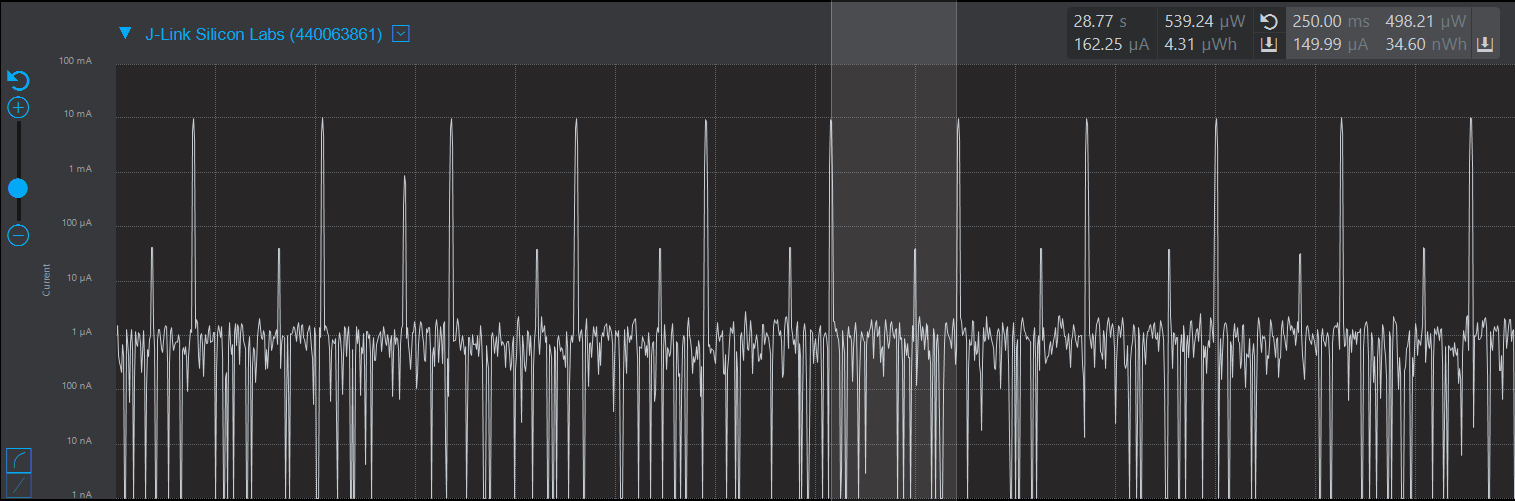
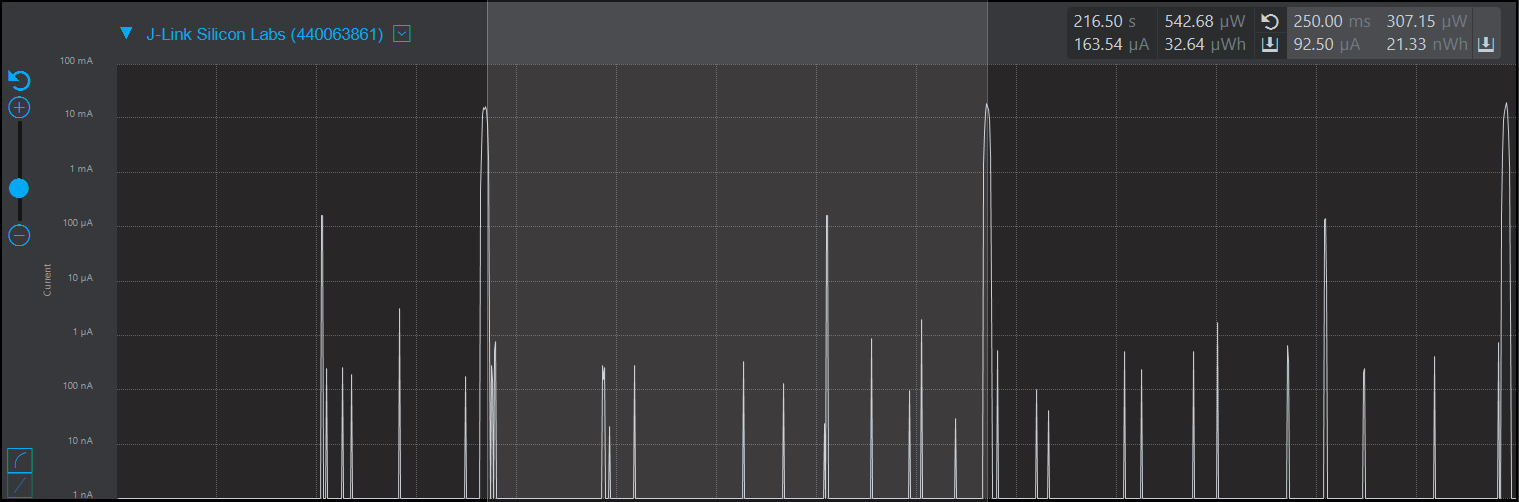
added proper EM requirements

diff --git a/src/scheduler.c b/src/scheduler.c
@@ -108,14 +108,14 @@ void PowerUp(void) {
 
 void SendReadTempCommand(void) {
     LETIMER_IntDisable(LETIMER0, LETIMER_IEN_COMP1);
-    //sl_power_manager_add_em_requirement(EM1);
+    sl_power_manager_add_em_requirement(EM1);
 
     I2C0_SendCommand(CMD_READ_TEMP);
 }
 
 
 void WaitForTempSensorReading(void) {
-    //sl_power_manager_remove_em_requirement(EM1);
+    sl_power_manager_remove_em_requirement(EM1);
     I2C0_DisableIntForTransfer();
 
     timerWaitUs_irq(TEMP_SENSOR_READ_TEMP_WAIT_US);
@@ -124,7 +124,7 @@ void WaitForTempSensorReading(void) {
 
 void RequestTempSensorReading(void) {
     LETIMER_IntDisable(LETIMER0, LETIMER_IEN_COMP1);
-    //sl_power_manager_add_em_requirement(EM1);
+    sl_power_manager_add_em_requirement(EM1);
 
     I2C0_RequestRead();
 }
@@ -139,7 +139,7 @@ void ReadOutTempSensorReading(ble_data_struct_t* ble_data) {
     uint32_t temp_C_float;
     sl_status_t ble_status;
 
-    //sl_power_manager_remove_em_requirement(EM1);
+    sl_power_manager_remove_em_requirement(EM1);
     I2C0_DisableIntForTransfer();
 
     I2C0_ReadBytes(read_buff, 2);
@@ -226,6 +226,7 @@ void state_machine(sl_bt_msg_t* event) {
             LETIMER_IntDisable(LETIMER0, LETIMER_IEN_COMP1);
             NVIC_DisableIRQ(I2C0_IRQn);
             I2C0_Teardown();
+            sl_power_manager_remove_em_requirement(EM1);
             ev = ev_SHUTDOWN;
         }
         else {

diff --git a/questions/Assignment5-HealthThermometerProfile-BLE.md b/questions/Assignment5-HealthThermometerProfile-BLE.md
@@ -33,12 +33,12 @@ See [Mastering Markdown](https://guides.github.com/features/mastering-markdown/)
    ![slave_latency](https://github.com/CU-ECEN-5823/ecen5823-assignment5-vido2373/blob/master/questions/Assignment5-Screenshots/slave_latency.PNG)  
 
 7. What is the peak current of a data transmission when the phone is connected and placed next to the Blue Gecko? 
-   Answer: 4.51 mA
+   Answer: 5.05 mA
    <br>Screenshot:  
    ![peak_current_phone_next_to](https://github.com/CU-ECEN-5823/ecen5823-assignment5-vido2373/blob/master/questions/Assignment5-Screenshots/peak_current_phone_next_to.PNG)  
    
 8. What is the peak current of a data transmission when the phone is connected and placed approximately 20 feet away from the Blue Gecko? 
-   Answer: 4.91 mA
+   Answer: 23.48 mA
    <br>Screenshot:  
    ![peak_current_phone_20ft_away](https://github.com/CU-ECEN-5823/ecen5823-assignment5-vido2373/blob/master/questions/Assignment5-Screenshots/peak_current_phone_20ft_away.PNG)  
    
